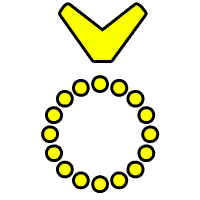
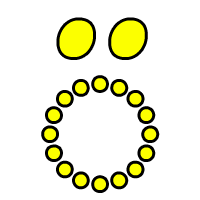
Update tone names and images

Changed region(s): [[0.27, 0.0, 0.75, 0.33]]

diff --git a/_lessons/00/index.md b/_lessons/00/index.md
@@ -91,8 +91,8 @@ The consonant **q** is usually pronounced as English "ng", but it can change its
 | ![](../tones/t2.png) | rising tone         | **ná** | <audio controls src="../tones/t2.mp3" /> |
 | ![](../tones/t3.png) | rising glottal tone | **nä** | <audio controls src="../tones/t3.mp3" /> |
 | ![](../tones/t4.png) | falling tone        | **nả** | <audio controls src="../tones/t4.mp3" /> |
-| ![](../tones/t5.png) | peaking tone        | **nâ** | <audio controls src="../tones/t5.mp3" /> |
-| ![](../tones/t6.png) | low tone            | **nà** | <audio controls src="../tones/t6.mp3" /> |
+| ![](../tones/t5.png) | rising-falling tone | **nâ** | <audio controls src="../tones/t5.mp3" /> |
+| ![](../tones/t6.png) | mid tone            | **nà** | <audio controls src="../tones/t6.mp3" /> |
 | ![](../tones/t7.png) | low glottal tone    | **nã** | <audio controls src="../tones/t7.mp3" /> |
 
 Once you have made yourself familiar with the letters and the tones and have got yourself a comfortable spot, all that is left for us to do is wish you good luck with this course... and why not in **Toaq**:
